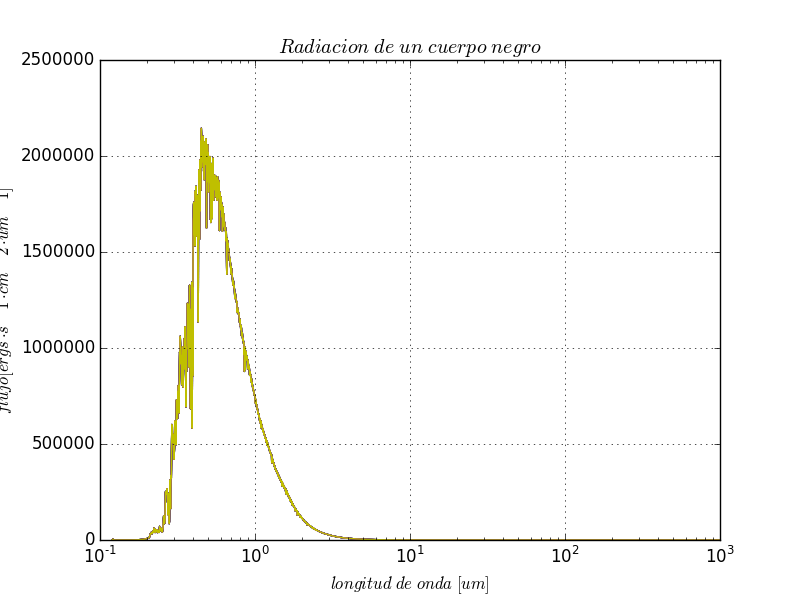
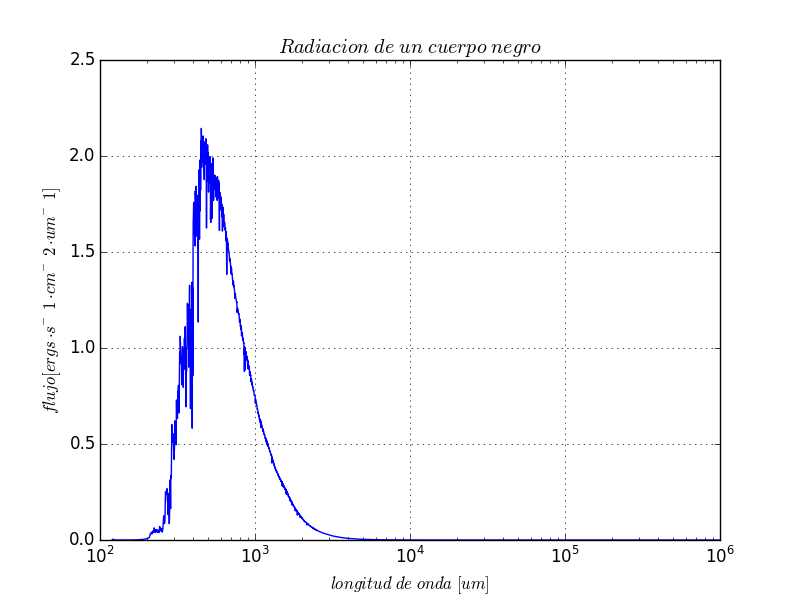
codigo modificado y listo

diff --git a/t1.py b/t1.py
@@ -1,6 +1,7 @@
 import numpy as np
 from pylab import*
-import math
+import astropy.constants as ac
+import scipy.integrate as si
 global ax
 global bx
 global a
@@ -12,8 +13,8 @@ print type (a)
 x=range(len(a))
 y=range(len(a))
 for i in range(len(a)):
-    x[i]=a[i][0]*0.001   #guardando longitudes de onda en unidades de micrometro
-    y[i]=a[i][1]*10**(6)       #guardando espectro de un cuerpo negro
+    x[i]=a[i][0]#*0.001   #guardando longitudes de onda en unidades de micrometro
+    y[i]=a[i][1]#*10**(6)       #guardando espectro de un cuerpo negro
 xscale('log')
 xlabel('$longitud \ de \ onda \  [um]$')
 ylabel('$flujo [ ergs\cdot s^-1 \cdot cm^-2 \cdot um^-1]$')
@@ -21,69 +22,74 @@ plot(x,y)
 grid(True)
 title('$Radiacion \ de \ un \ cuerpo \ negro$')
 savefig("radiacion.png")
-#show()
+show()
 
 #parte 2
 
-ax=x[0] #valor min de las longitudes de onda
-bx=x[len(x)-1] #valor max de las longitudes de onda
-delt=(bx-ax)/(len(a)-1)
-integr=  y[0]
+intT= 0
 i=0
 while i<(len(a)-1):
-    integr += y[i]
-    i +=1
-    sol=(2.0*integr+ y[0] + y[len(x)-1])*(delt/2.0)
+    delta=x[i+1]-x[i]
+    intT += (y[i]+y[i+1])* (delta/2)
+    i+=1
+print "constante solar =",
+print intT, "[W*m^-2]"
 
-print sol
 
-#haciendo sipmsons
-delta=(bx-ax)/(len(a)-1)
-par=0
-impar=0
-i=1
-while i<(len(a)-2):
-        if i%2==1:
-            impar+=y[i]
-        elif i%2==0:
-            par+=y[i]
-        i+=1
-        solsimp= (delta/3.0)*(y[0] + 4*impar + 2*par + y[(len(x)-1)])
-print solsimp
+'''el valor que nos entrego la integral del trapecio es la cte solar
+esta se debe multiplicar por 4*pi* au'''
+
+Lumi=(4*np.pi)*((ac.au.value)**2)*intT
+print "Luminosidad solar =",
+print Lumi, "[W]"
+
+comp=si.trapz(y,x)
+print "valor con pc = ",
+print comp
+
+
+
 
 #Parte 3
-import astropy.constants as ac
 
-h=ac.h.cgs
-c=ac.c.cgs
-k=ac.k_B.cgs
-a=ac.a0.cgs
-T=5778 #
+h=ac.h
+c=ac.c
+k=ac.k_B
+a=ac.a0
+t=5778.0 #
 
 def f(x):
     return (((np.tan(x))**3.0)*((np.cos(x))**(-2.0)))/(np.exp(np.tan(x))-1)
 
-pini=((2*np.pi*h)/c**2)*((k*T)/h)**4.0
+pini=((2*np.pi*h)/c**2)*((k*t)/h)**4
+a=0.0000001 #para que no se indefina
+b= np.pi/2
+def inteplanck(x):
+    a=0.0000001 #para que no se indefina
+    b= np.pi/2 #por cambio de variable
+    n=1000    #integral para la funcion
+    esp=np.linspace(a,b,n)
+    delta= (esp[1]-esp[0])/2
+    c=0
+    intp=0
+    while c < n-2:
+        intp += (delta/3.0)*(f(esp[c])+(4*f(esp[c+1]))+ f(esp[c+2]))
+        c+= 1
+    return intp
 
-a=0#lim inicial
-b= np.pi/2#lim final
-def intesimpsons(n,f):
-    a=0#lim inicial
-    b= np.pi/2#lim final
-    delta=(b-a)/n
-    par=0
-    impar=0
-    i=0
-    x=a+i*delta
-    for i in range(1,n):
-        if i==1:
-            pmi=(b-x)*f((x+b)/2)
-        elif i==n-1 :
-            pmf=(x-a)*f((a+x)/2)
-        elif i%2==1:
-            impar+=f(x)
-        elif i%2==0:
-            par+=f(x)
-    return (delta/3)*(4*impar + 2*par) + pmi + pmf
+print "integral",
+print inteplanck(f)
+print "valor analitico",
+print pini*(np.pi**4)/15
+print "constante de planck",
+print pini*(inteplanck(f))
 
-intesimpsons(1000,f)*pini
+com2=si.quad(f,a,b)
+print "valor de la integral calculado por scipy = ",
+print com2
+
+#calcular el radio del sol
+P=inteplanck(f)*pini
+radio = np.sqrt(Lumi/(4*np.pi*P))
+print "radio del sol = ",
+print radio, "km"
